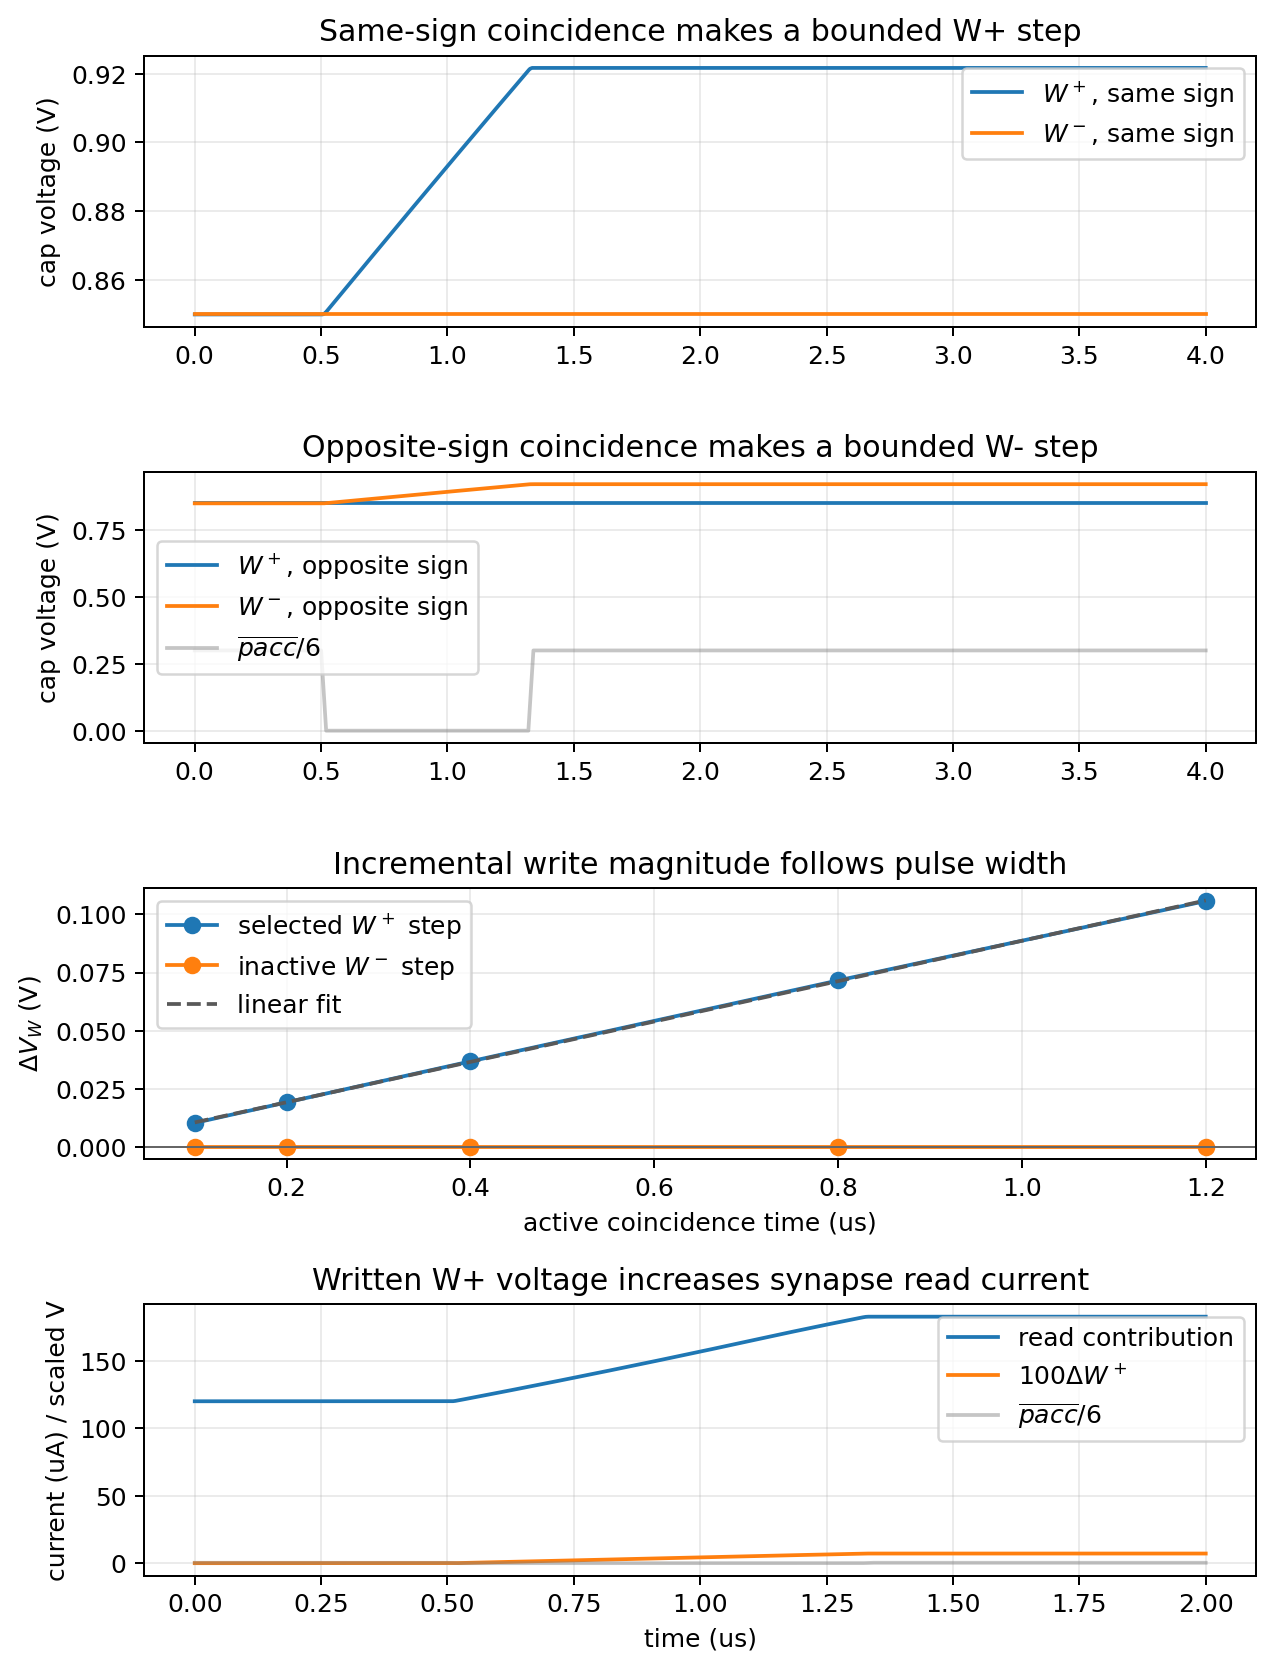
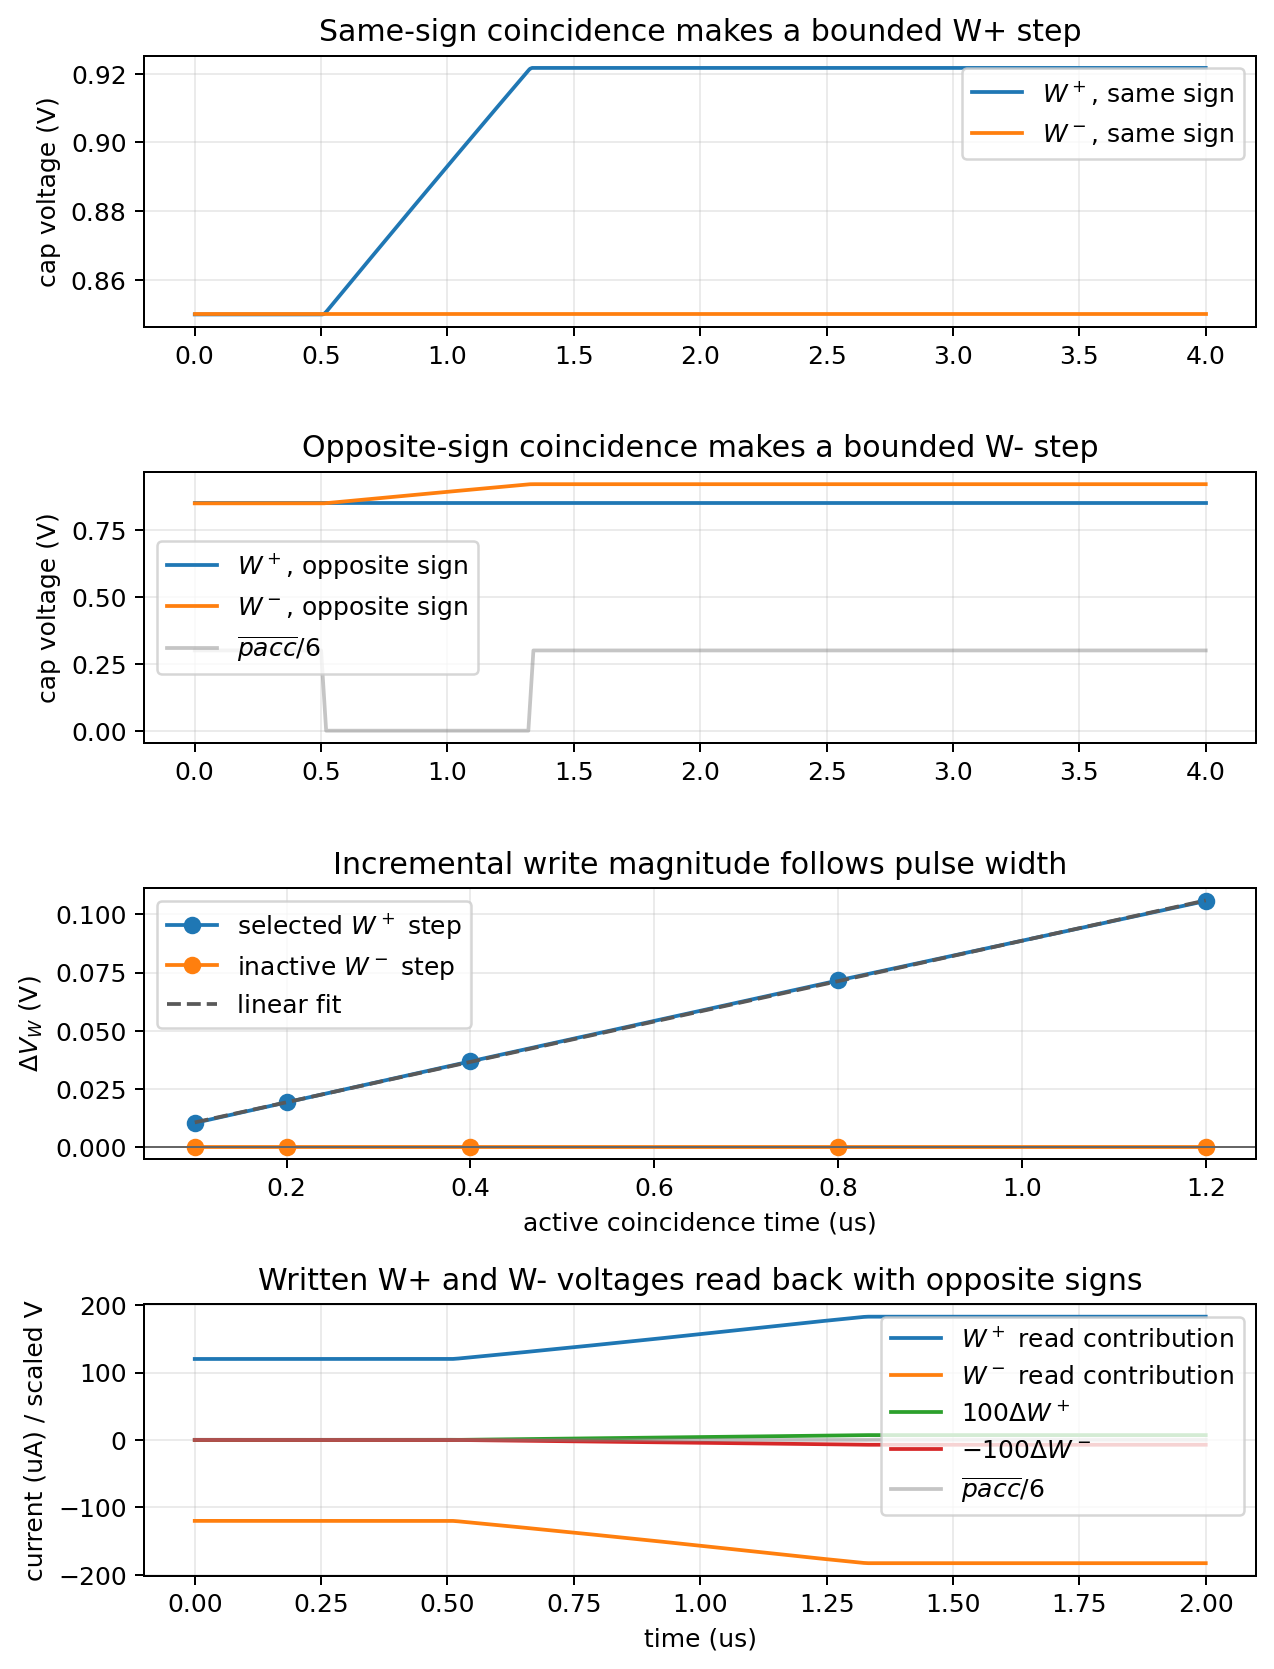
Add MOS writer negative readback characterization

diff --git a/spice/run_mos_cell_characterization.py b/spice/run_mos_cell_characterization.py
@@ -583,27 +583,44 @@ VPACC_N paccn 0 PULSE(1.8 0 0.5u 20n 20n 0.8u 5.0u)
 VHI hi 0 1.8
 VLO lo 0 0
 
-* Same-sign writer charges W+ in the same voltage range used by the synapse
-* tail-gate read path below.
-CWP wp 0 {{CWRITE}} IC=0.85
-CWM wm 0 {{CWRITE}} IC=0.85
-MWP1 vdd paccn n1 vdd PMOS L={{LCH}} W={{WWRITE}}
-MWP2 n1 lo n2 vdd PMOS L={{LCH}} W={{WWRITE}}
-MWP3 n2 lo wp vdd PMOS L={{LCH}} W={{WWRITE}}
-MWM1 vdd paccn n3 vdd PMOS L={{LCH}} W={{WWRITE}}
-MWM2 n3 lo n4 vdd PMOS L={{LCH}} W={{WWRITE}}
-MWM3 n4 hi wm vdd PMOS L={{LCH}} W={{WWRITE}}
+* Same-sign writer charges W+ in the same voltage range used by the positive
+* synapse tail-gate read path below.
+CWP_P wp_p 0 {{CWRITE}} IC=0.85
+CWM_P wm_p 0 {{CWRITE}} IC=0.85
+MWPP1 vdd paccn n1p vdd PMOS L={{LCH}} W={{WWRITE}}
+MWPP2 n1p lo n2p vdd PMOS L={{LCH}} W={{WWRITE}}
+MWPP3 n2p lo wp_p vdd PMOS L={{LCH}} W={{WWRITE}}
+MWPM1 vdd paccn n3p vdd PMOS L={{LCH}} W={{WWRITE}}
+MWPM2 n3p lo n4p vdd PMOS L={{LCH}} W={{WWRITE}}
+MWPM3 n4p hi wm_p vdd PMOS L={{LCH}} W={{WWRITE}}
 
-VZP zpp 0 1.8
-VZM zmp 0 1.8
-MPP zpp xp tail 0 NMOS L={{LCH}} W={{WN}}
-MPM zmp xm tail 0 NMOS L={{LCH}} W={{WN}}
-MTP tail wp 0 0 NMOS L={{LCH}} W=12u
+VZPP zpp 0 1.8
+VZMP zmp 0 1.8
+MPP zpp xp tailp 0 NMOS L={{LCH}} W={{WN}}
+MPM zmp xm tailp 0 NMOS L={{LCH}} W={{WN}}
+MTP tailp wp_p 0 0 NMOS L={{LCH}} W=12u
+
+* Opposite-sign writer charges W-.  The read copy swaps differential-pair
+* input gates, matching the negative-weight synapse convention.
+CWP_N wp_n 0 {{CWRITE}} IC=0.85
+CWM_N wm_n 0 {{CWRITE}} IC=0.85
+MWNP1 vdd paccn n1n vdd PMOS L={{LCH}} W={{WWRITE}}
+MWNP2 n1n lo n2n vdd PMOS L={{LCH}} W={{WWRITE}}
+MWNP3 n2n hi wp_n vdd PMOS L={{LCH}} W={{WWRITE}}
+MWNM1 vdd paccn n3n vdd PMOS L={{LCH}} W={{WWRITE}}
+MWNM2 n3n lo n4n vdd PMOS L={{LCH}} W={{WWRITE}}
+MWNM3 n4n lo wm_n vdd PMOS L={{LCH}} W={{WWRITE}}
+
+VZPN zpn 0 1.8
+VZMN zmn 0 1.8
+MNP zpn xm tailn 0 NMOS L={{LCH}} W={{WN}}
+MNM zmn xp tailn 0 NMOS L={{LCH}} W={{WN}}
+MTN tailn wm_n 0 0 NMOS L={{LCH}} W=12u
 
 .control
 set noaskquit
 tran 5n 2.0u uic
-wrdata mos_writer_readback.dat v(wp) v(wm) i(VZP) i(VZM) v(paccn)
+wrdata mos_writer_readback.dat v(wp_p) v(wm_p) i(VZPP) i(VZMP) v(wp_n) v(wm_n) i(VZPN) i(VZMN) v(paccn)
 quit
 .endc
 .end
@@ -636,13 +653,21 @@ quit
     require(1.0 - ss_res / ss_tot > 0.98, "writer pulse-width response should be near-linear")
 
     readback_data = run_ngspice(readback_deck, "mos_writer_readback")
-    rt, read_cols = load_wrdata(readback_data, 5)
-    read_contrib = read_cols[3] - read_cols[2]
-    baseline_contrib = float(read_contrib[np.argmin(np.abs(rt - 0.4e-6))])
-    final_contrib = float(read_contrib[np.argmin(np.abs(rt - 1.8e-6))])
-    require(read_cols[0][-1] > 0.90, "writer readback should leave W+ in active synapse range")
-    require(abs(read_cols[1][-1] - 0.85) < 1e-3, "writer readback should leave inactive W- unchanged")
-    require(final_contrib > baseline_contrib + 30e-6, "written W+ should increase synapse contribution")
+    rt, read_cols = load_wrdata(readback_data, 9)
+    pos_read_contrib = read_cols[3] - read_cols[2]
+    neg_read_contrib = read_cols[7] - read_cols[6]
+    baseline_idx = int(np.argmin(np.abs(rt - 0.4e-6)))
+    final_idx = int(np.argmin(np.abs(rt - 1.8e-6)))
+    baseline_pos = float(pos_read_contrib[baseline_idx])
+    final_pos = float(pos_read_contrib[final_idx])
+    baseline_neg = float(neg_read_contrib[baseline_idx])
+    final_neg = float(neg_read_contrib[final_idx])
+    require(read_cols[0][-1] > 0.90, "writer readback should leave W+ in active positive-synapse range")
+    require(abs(read_cols[1][-1] - 0.85) < 1e-3, "positive readback should leave inactive W- unchanged")
+    require(abs(read_cols[4][-1] - 0.85) < 1e-3, "negative readback should leave inactive W+ unchanged")
+    require(read_cols[5][-1] > 0.90, "writer readback should leave W- in active negative-synapse range")
+    require(final_pos > baseline_pos + 30e-6, "written W+ should increase positive synapse contribution")
+    require(final_neg < baseline_neg - 30e-6, "written W- should increase negative synapse contribution magnitude")
 
     fig, axes = plt.subplots(4, 1, figsize=(7.2, 9.4))
     axes[0].plot(1e6 * t, cols[0], label="$W^+$, same sign")
@@ -667,12 +692,14 @@ quit
     axes[2].set_title("Incremental write magnitude follows pulse width")
     axes[2].grid(True, alpha=0.25)
     axes[2].legend()
-    axes[3].plot(1e6 * rt, 1e6 * read_contrib, label="read contribution")
+    axes[3].plot(1e6 * rt, 1e6 * pos_read_contrib, label="$W^+$ read contribution")
+    axes[3].plot(1e6 * rt, 1e6 * neg_read_contrib, label="$W^-$ read contribution")
     axes[3].plot(1e6 * rt, 100.0 * (read_cols[0] - read_cols[0][0]), label="$100\\Delta W^+$")
-    axes[3].plot(1e6 * rt, read_cols[4] / 6.0, color="0.5", alpha=0.45, label="$\\overline{pacc}/6$")
+    axes[3].plot(1e6 * rt, -100.0 * (read_cols[5] - read_cols[5][0]), label="$-100\\Delta W^-$")
+    axes[3].plot(1e6 * rt, read_cols[8] / 6.0, color="0.5", alpha=0.45, label="$\\overline{pacc}/6$")
     axes[3].set_xlabel("time (us)")
     axes[3].set_ylabel("current (uA) / scaled V")
-    axes[3].set_title("Written W+ voltage increases synapse read current")
+    axes[3].set_title("Written W+ and W- voltages read back with opposite signs")
     axes[3].grid(True, alpha=0.25)
     axes[3].legend()
     fig.tight_layout()

diff --git a/docs/spicenn_progress_note.tex b/docs/spicenn_progress_note.tex
@@ -650,8 +650,9 @@ must satisfy before it can replace the current behavioral prototype.
   makes a bounded step only on the \(W^+\) storage capacitor; opposite-sign
   coincidence steps only \(W^-\).  The pulse-width sweep verifies near-linear
   selected write magnitude while the inactive branch stays quiet.  The readback
-  panel then uses the written \(W^+\) voltage as a synapse tail gate and shows
-  the contribution current increasing.}
+  panel then uses the written \(W^+\) and \(W^-\) voltages as positive- and
+  negative-weight synapse tail gates, verifying opposite signed contribution
+  changes from the stored capacitor rails.}
   \label{fig:mos-writer-ngspice}
 \end{figure}
 

diff --git a/engineering_log.md b/engineering_log.md
@@ -2,6 +2,7 @@
 
 ## 2026-05-24
 
+- Extended the writer readback characterization to close the missing negative-weight half. The ngspice readback deck now has separate same-sign and opposite-sign writer copies, uses the stored \(W^+\) and \(W^-\) capacitor voltages as the tail gates of positive and gate-swapped negative synapse slices, and asserts that \(W^+\) increases the positive contribution while \(W^-\) makes the negative contribution more negative.
 - Closed a writer/read operating-range mismatch. The writer characterization had been making clean incremental steps near 0.2 V, but the signed synapse tail gate needs an above-threshold stored weight voltage. The writer caps now start around the synapse-readable common-mode, and a new ngspice readback deck uses the written \(W^+\) capacitor directly as a synapse tail gate and asserts that the contribution current increases after the write.
 - Added a MOS reset/precharge characterization for reusable state capacitors. The new deck starts a \(z^+/z^-\) capacitor pair from a deliberately mismatched state, uses complementary MOS transmission gates to reset both rails toward common mode, writes a new signed preactivation through the synapse slice, then resets again without Python-side capacitor forcing. This makes the basic-component plots cover per-sample reuse rather than only one-shot initial conditions.
 - Extended the hidden-error characterization with a transistor-only sign-selection storage transient. The existing finite-difference replica sweep remains the derivative-window evidence, while the new deck uses MOS pass-switch stacks controlled by \(pbwd\) and \(r^+/r^-\) to sample opposite differential error polarities onto hidden-error capacitors and assert that both signs hold after the phase closes. This removes the misleading implication that Python's plotted \(\pm\) gain traces were themselves a storage circuit.
